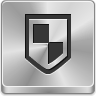
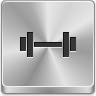
add mimic monster

Changed region(s): [[0.1875, 0.125, 0.8125, 0.7812]]

diff --git a/js/view.js b/js/view.js
@@ -210,7 +210,7 @@ define(function(require,exports,module){
                 window.hero.getExp(this.model.get("exp"), level);
                 this.model.destroy();
                 clearMapBlock(this.model.get("position").x, this.model.get("position").y);
-                generateItem(this.model.get("position").x, this.model.get("position").y, level);
+                this.onDropItem(this.model.get("position").x, this.model.get("position").y);
                 return false;
             }
             return true;
@@ -231,7 +231,7 @@ define(function(require,exports,module){
                     if ( !hit ) {
                         self.effecQueue.add("Miss!");
                     } else {
-                        self.model.onHitHero();
+                        self.onHitHero();
                     }
                     self.$el.css({transition: "all "+TIME_SLICE/1000+"s ease-in-out 0s", left:x, top:y});
                 },TIME_SLICE);
@@ -245,6 +245,14 @@ define(function(require,exports,module){
                     self.$el.removeClass("attacking0");
                 },TIME_SLICE*2);
             }
+        },
+
+        onHitHero:function(){
+            this.model.onHitHero();
+        },
+
+        onDropItem:function(x,y){
+            generateItem(this.model.get("position").x, this.model.get("position").y, this.model.get("level"));
         },
 
         checkInRange:function(){
@@ -283,7 +291,10 @@ define(function(require,exports,module){
     })
 
     exports.VampireView = exports.MonsterView.extend({
-
+        onHitHero:function(){
+            exports.MonsterView.prototype.onHitHero.call();
+            this.effecQueue.add("Level Up");
+        }
     })
 
     exports.ArcherView = exports.MonsterView.extend({
@@ -315,12 +326,19 @@ define(function(require,exports,module){
         }
     })
 
+    exports.MimicView = exports.MonsterView.extend({
+        onDropItem:function(x,y){
+            generateItemForSure(x,y, this.model.get("level"));
+        }
+    })
+
     exports.ViewMap = {
-        "slime":exports.SlimeView,
-        "skeleton":exports.SkeletonView,
-        "ogre":exports.OgreView,
-        "archer":exports.ArcherView,
+        slime:exports.SlimeView,
+        skeleton:exports.SkeletonView,
+        ogre:exports.OgreView,
+        archer:exports.ArcherView,
         goblin:exports.GoblinView,
+        mimic:exports.MimicView,
         vampire:exports.VampireView
     };
 

diff --git a/js/main.js b/js/main.js
@@ -100,25 +100,30 @@ define(function(require,exports,module){
         return {width:blockW, height:blockH}
     }
 
-    window.generateItem = function(x,y, level){
+    window.generateItem = function(x,y, monsterLevel){
         if ( x >= 0 && x < mapWidth && y >= 0 && y < mapHeight ){
-            if ( Math.random() > gameStatus.generateItemRate*(level+hero.get("treasureHunting")) )
+            if ( Math.random() > gameStatus.generateItemRate*(monsterLevel+hero.get("treasureHunting")) )
                 return;
 
-            var block = map[x][y];
-            block.model = new Model.Item({
-                type:getRandomItem(gameStatus.currentItemTypes),
-                position:{
-                    x: x,
-                    y: y
-                }
-            });
-            var itemView = new View.ItemView({model:block.model});
-            mapEl.append(itemView.render().$el);
-
-            block.view = itemView;
-            block.type = "item";
+            generateItemForSure(x,y,1);
         }
+    }
+
+    window.generateItemForSure=function(x,y, itemLevel){
+        var block = map[x][y];
+        block.model = new Model.Item({
+            type:getRandomItem(gameStatus.currentItemTypes),
+            position:{
+                x: x,
+                y: y
+            },
+            level: itemLevel
+        });
+        var itemView = new View.ItemView({model:block.model});
+        mapEl.append(itemView.render().$el);
+
+        block.view = itemView;
+        block.type = "item";
     }
 
     var generateOneMonster = function(){
@@ -554,7 +559,7 @@ define(function(require,exports,module){
         gameStatus.turn ++;
         if ( gameStatus.turn == 6 ) {
             gameStatus.generateItemRate = 0.05;
-            gameStatus.currentMonsterTypes.push("skeleton")
+            gameStatus.currentMonsterTypes.push("mimic")
         } else if ( gameStatus.turn == 18 ) {
             gameStatus.currentMonsterTypes.push("slime")
             gameStatus.currentMonsterTypes.push("skeleton")

diff --git a/js/help.js b/js/help.js
@@ -29,21 +29,25 @@ define(function(require,exports,module) {
     });
 
     exports.monsterDescription = {
-        "slime":{
-            text:"史莱姆<br/>攻击力：弱（为等级的1/2）<br/>经验值：低",
-            imageClass:"slime-help"
+        "archer":{
+            text:"骷髅弓箭手<br/>远程攻击<br/>攻击力：始终为1<br/>经验值：中",
+            imageClass:"archer-help"
         },
-        "skeleton":{
-            text:"骷髅<br/>攻击力：中（与等级相同）<br/>经验值：中",
-            imageClass:"skeleton-help"
+        "mimic":{
+            text:"宝箱怪<br/>必然掉落宝物，且宝物等级与怪物等级相同<br/>攻击力：中（与等级相同）<br/>经验值：始终为1",
+            imageClass:"mimic-help"
         },
         "ogre":{
             text:"食人魔<br/>攻击力：强（为等级的2倍）<br/>经验值：高",
             imageClass:"ogre-help"
         },
-        "archer":{
-            text:"骷髅弓箭手<br/>远程攻击<br/>攻击力：始终为1<br/>经验值：中",
-            imageClass:"archer-help"
+        "skeleton":{
+            text:"骷髅<br/>攻击力：中（与等级相同）<br/>经验值：中",
+            imageClass:"skeleton-help"
+        },
+        "slime":{
+            text:"史莱姆<br/>攻击力：弱（为等级的1/2）<br/>经验值：低",
+            imageClass:"slime-help"
         },
         "vampire":{
             text:"吸血鬼<br/>每次击中英雄后升级<br/>攻击力：强（为等级的2倍）<br/>经验值：高",

diff --git a/css/game.css b/css/game.css
@@ -113,10 +113,20 @@
 }
 
 .monster.slime.d0.attacking0, .monster.slime.d1.attacking0, .monster.slime.d2.attacking0, .monster.slime.d3.attacking0 {
-    background-image: url("../img/slime2-1.png");
-}
+     background-image: url("../img/slime2-1.png");
+ }
 .monster.slime.d0.attacking1, .monster.slime.d1.attacking1, .monster.slime.d2.attacking1, .monster.slime.d3.attacking1 {
     background-image: url("../img/slime2-2.png");
+}
+
+.monster.mimic.d0,.monster.mimic.d1,.monster.mimic.d2,.monster.mimic.d3 {
+    background-image: url("../img/mimic2-0.png");
+}
+.monster.mimic.d0.attacking0, .monster.mimic.d1.attacking0, .monster.mimic.d2.attacking0, .monster.mimic.d3.attacking0 {
+    background-image: url("../img/mimic2-3.png");
+}
+.monster.mimic.d0.attacking1, .monster.mimic.d1.attacking1, .monster.mimic.d2.attacking1, .monster.mimic.d3.attacking1 {
+    background-image: url("../img/mimic2-4.png");
 }
 
 .monster.vampire.d0,.monster.vampire.d1,.monster.vampire.d2,.monster.vampire.d3 {
@@ -315,6 +325,9 @@
     vertical-align: middle;
 }
 
+.mimic-help {
+    background-image: url("../img/mimic2-0.png");
+}
 .slime-help {
     background-image: url("../img/slime2-0.png");
 }

diff --git a/js/datamodel.js b/js/datamodel.js
@@ -130,6 +130,12 @@ define(function(require,exports,module){
         }
     })
 
+    exports.Mimic = exports.Monster.extend({
+        calExp:function(level){
+            return 1;
+        }
+    })
+
     exports.Ogre = exports.Monster.extend({
         calAttack:function(level){
             return level*2;
@@ -165,11 +171,12 @@ define(function(require,exports,module){
     })
 
     exports.ModelMap = {
-        slime:exports.Slime,
-        skeleton:exports.Skeleton,
-        ogre:exports.Ogre,
         archer:exports.Archer,
         goblin:exports.Goblin,
+        mimic:exports.Mimic,
+        skeleton:exports.Skeleton,
+        slime:exports.Slime,
+        ogre:exports.Ogre,
         vampire:exports.Vampire
     }
 

diff --git a/js/preload.js b/js/preload.js
@@ -20,6 +20,10 @@ define(function(require,exports,module) {
         "./img/warrior3-2.png",
         "./img/warrior3-3.png",
         "./img/warrior3-4.png",
+
+        "./img/mimic2-0.png",
+        "./img/mimic2-3.png",
+        "./img/mimic2-4.png",
         "./img/slime2-0.png",
         "./img/slime2-1.png",
         "./img/slime2-2.png",
